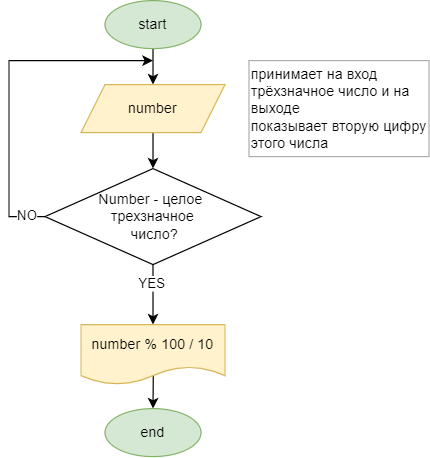
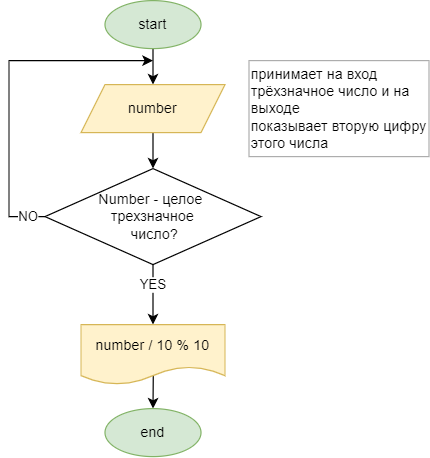
Task 2_7 finished

Changed region(s): [[0.2116, 0.7336, 0.514, 0.7642], [0.3326, 0.5808, 0.393, 0.6419], [0.0302, 0.4585, 0.0907, 0.4891]]

diff --git a/TASK_2_7/Program.cs b/TASK_2_7/Program.cs
@@ -1,7 +1,17 @@
-// Предположим, что заказчик хочет введения значений из области рациональных чисел
+// Предположим, что заказчик хочет введения значений из области рациональных чисел. Для интереса.
 double number;
 Console.WriteLine("Введите число");
 while (!double.TryParse(Console.ReadLine(), out number))
     Console.WriteLine("Неверный ввод. Введите число, пожалуйста");
-int digit3 = (int)(Math.Abs(number)/100);
-Console.WriteLine(digit3);
+
+double absNum = Math.Abs(number);
+//if (Math.Abs(number)>=100) Console.WriteLine(number.ToString().Replace("-","")[2]);
+if (absNum >= 100) Console.WriteLine(Find3Digit(absNum));
+else Console.WriteLine("третьей цифры нет");
+
+
+int Find3Digit(double num)
+{
+    int digit3 = (int)Math.Log10(num) + 1;
+    return (int)(num / Math.Pow(10, digit3 - 3) % 10);
+}

diff --git a/TASK_2_2/Program.cs b/TASK_2_2/Program.cs
@@ -3,4 +3,4 @@ Console.WriteLine("Введите целое трехзначное число")
 while (!int.TryParse(Console.ReadLine(), out number) || number < 100 || number > 999)
     Console.WriteLine("Неверный ввод. Введите целое трехзначное число.");
 
-Console.WriteLine(number % 100 / 10);
+Console.WriteLine(number / 10 % 10);
